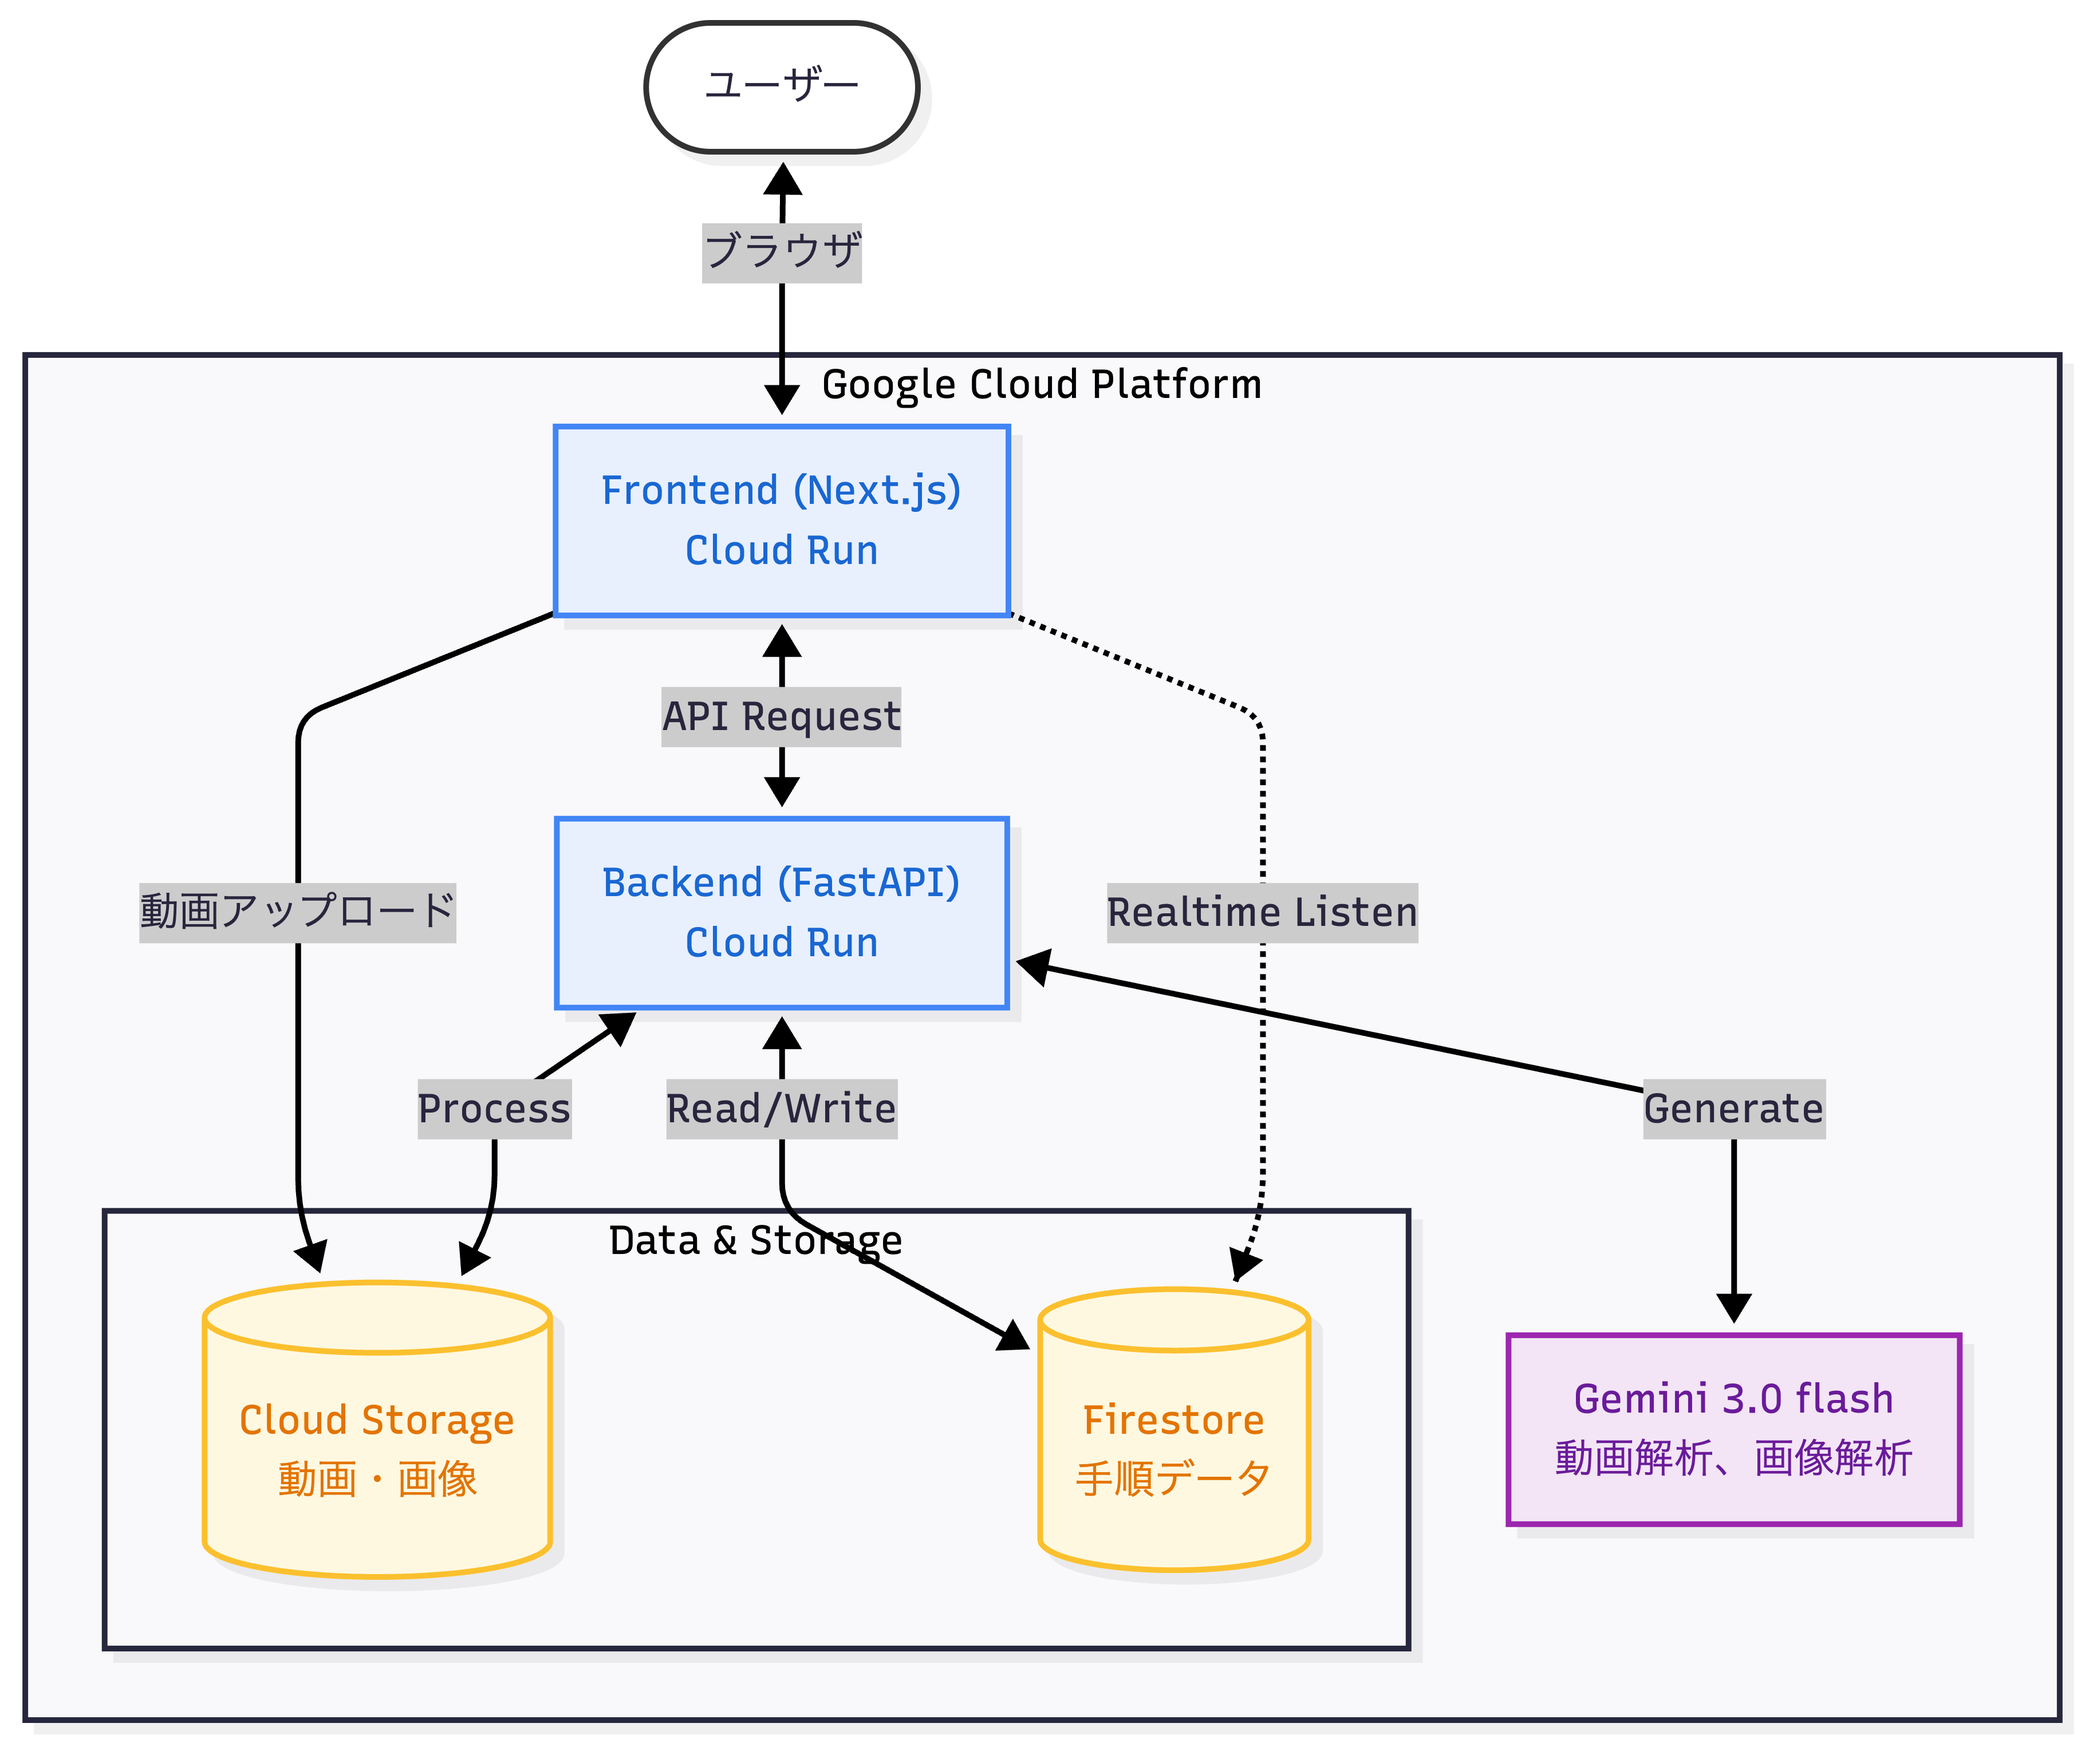
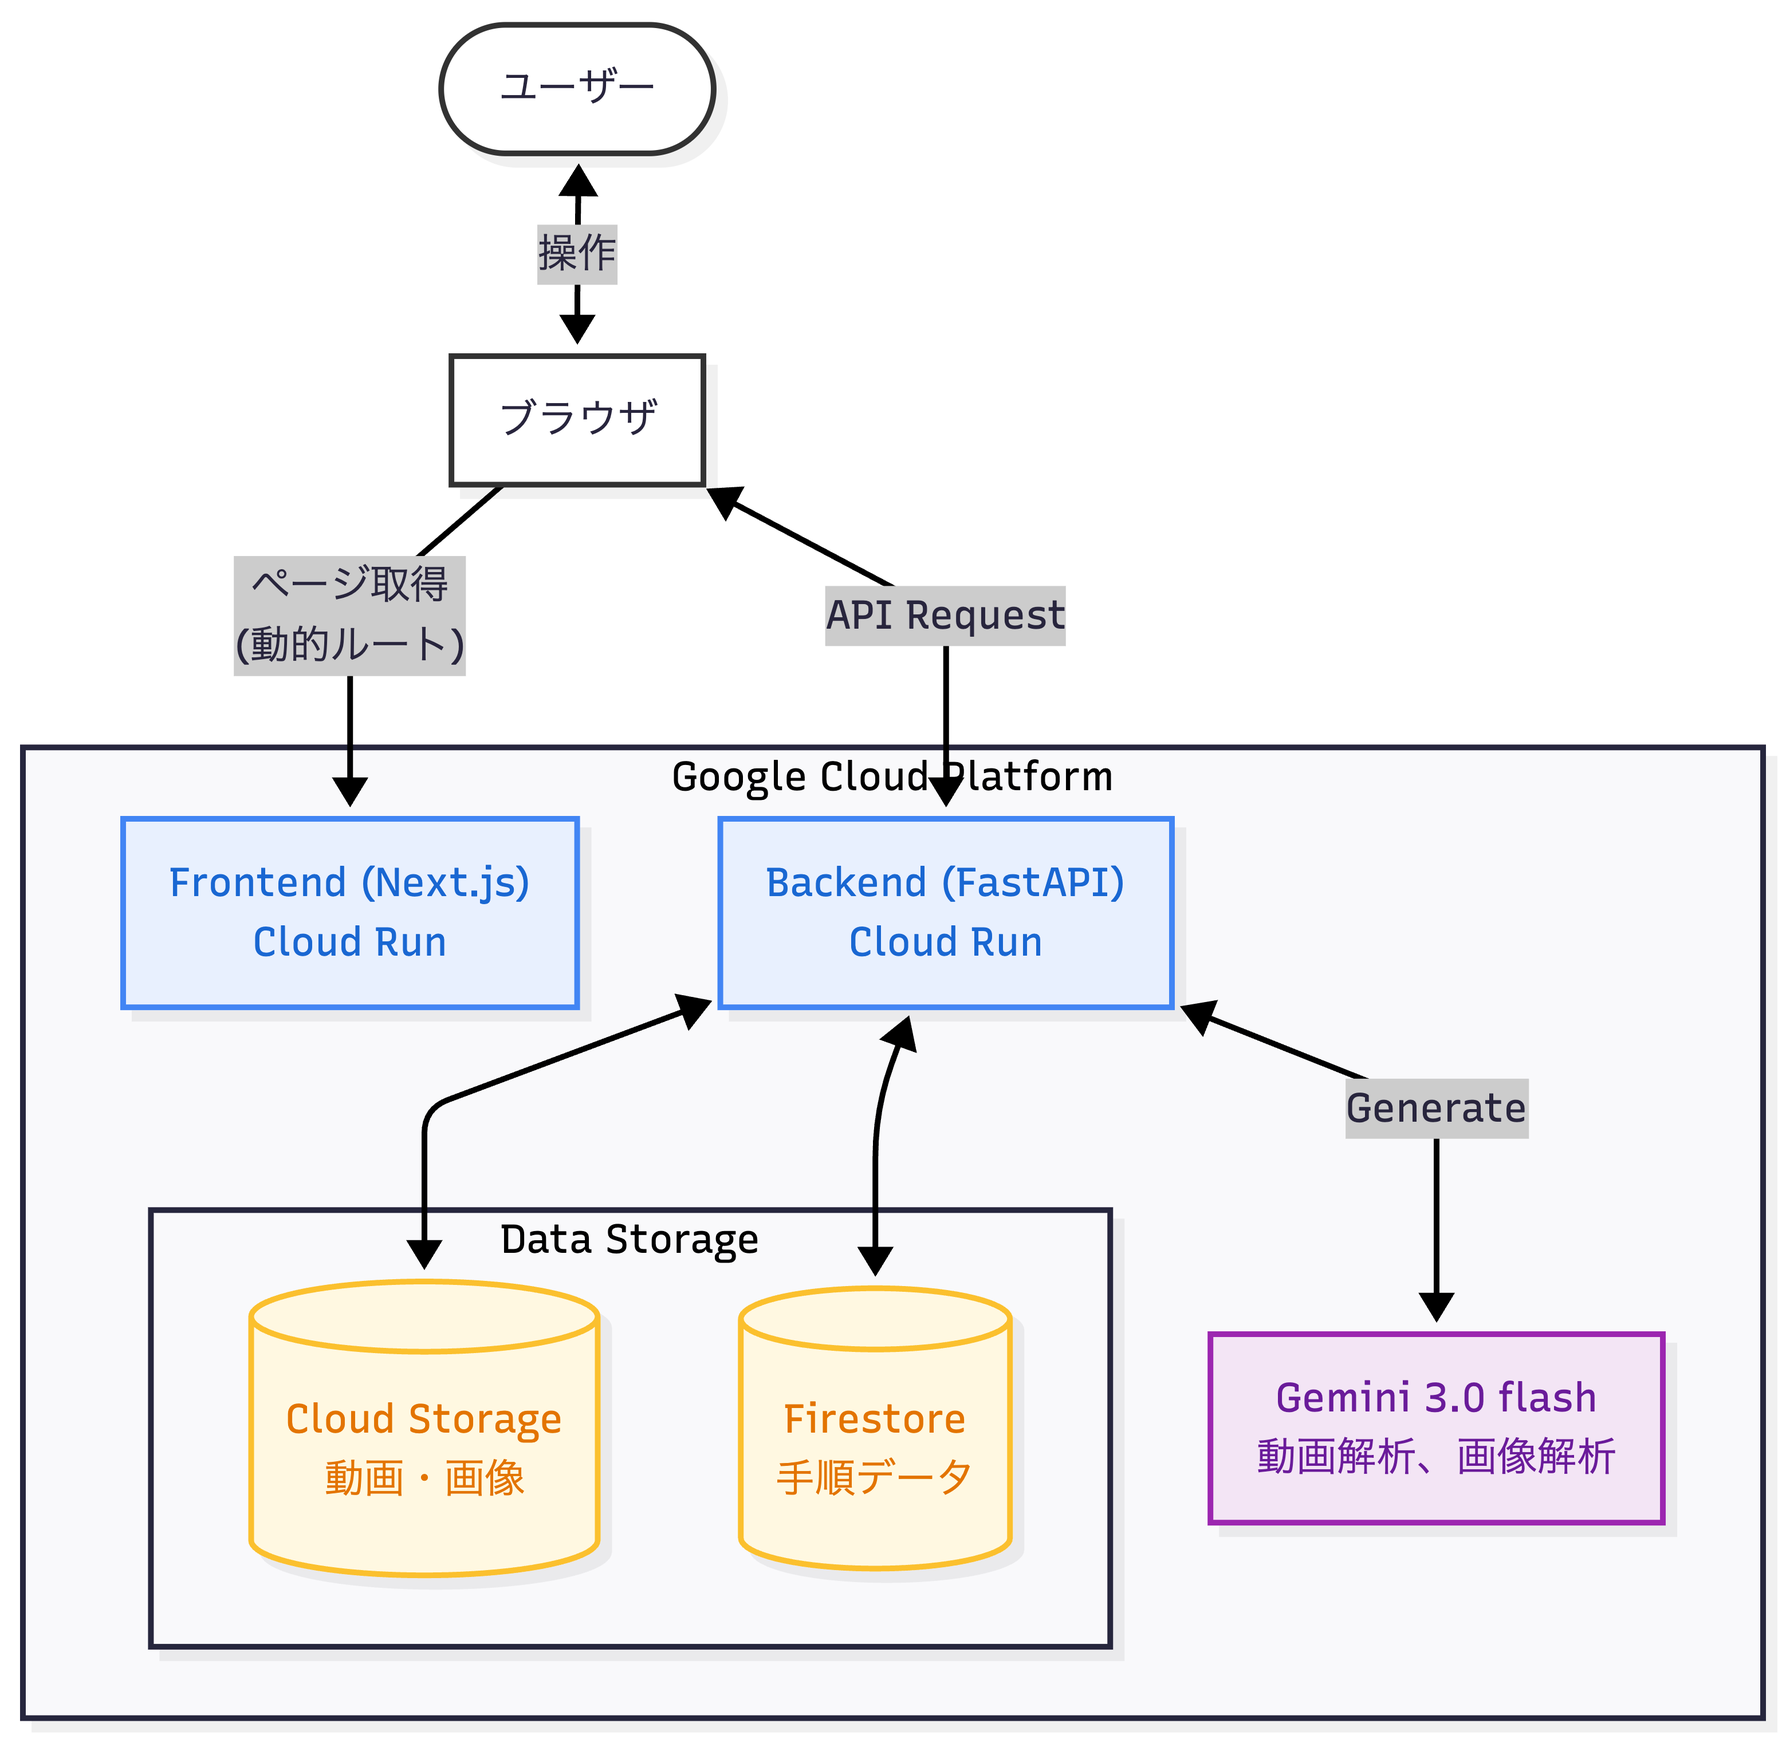
update: アーキテクチャの修正 フロントにおいてクライアントとサーバを明確化

Changed region(s): [[0.0, 0.0, 0.9955, 0.9675], [0.6222, 0.9363, 0.6844, 0.9675], [0.4355, 0.0312, 0.4666, 0.0624]]

diff --git a/docs/設計書.md b/docs/設計書.md
@@ -77,6 +77,7 @@ graph TD
     classDef ai fill:#f3e5f5,stroke:#9c27b0,stroke-width:2px,color:#6a1b9a;
 
     User([ユーザー])
+    Browser[ブラウザ]
 
     subgraph "Google Cloud Platform"
         direction TB
@@ -84,7 +85,7 @@ graph TD
         FE["Frontend (Next.js)"<br/>Cloud Run]
         BE["Backend (FastAPI)"<br/>Cloud Run]
         
-        subgraph "Data & Storage"
+        subgraph "Data Storage"
             GCS[(Cloud Storage<br/>動画・画像)]
             DB[(Firestore<br/>手順データ)]
         end
@@ -92,12 +93,12 @@ graph TD
         AI[Gemini 3.0 flash<br/>動画解析、画像解析]
     end
 
-    User <-->|ブラウザ| FE
-    FE <-->|API Request| BE
-    FE -- 動画アップロード --> GCS
-    BE <-->|Process| GCS
-    BE <-->|Read/Write| DB
-    FE -.->|Realtime Listen| DB
+    User <-->|操作| Browser
+    Browser -- "ページ取得<br/>(動的ルート)" --> FE
+    Browser <-->|API Request| BE
+    
+    BE <--> GCS
+    BE <--> DB
     BE <-->|Generate| AI
 
     %% クラス適用
@@ -105,6 +106,7 @@ graph TD
     class FE,BE compute;
     class GCS,DB storage;
     class AI ai;
+    class Browser user;
 ```
 
 
@@ -113,50 +115,47 @@ graph TD
 ```mermaid
 sequenceDiagram
     autonumber
-    actor User as ユーザー
+    participant Browser as ブラウザ<br/>(Client)
     participant FE as フロントエンド<br/>(Cloud Run)
     participant GCS as Cloud Storage
     participant DB as Firestore
     participant API as バックエンド<br/>(Cloud Run)
     participant AI as Gemini 3.0 Flash
 
-    Note over User, GCS: 動画アップロード
-    User->>FE: 動画選択
-    FE->>GCS: 直接アップロード (Signed URL / SDK)
+    Browser->>GCS: 動画アップロード (Firebase SDK)
     activate GCS
-    GCS-->>FE: 保存完了 (gs:// URL)
+    GCS-->>Browser: 保存完了 (gs:// URL)
     deactivate GCS
 
-    FE->>API: 解析リクエスト
+    Browser->>API: 解析リクエスト
     activate API
     API->>API: Background Task登録
-    API-->>FE: 202 Accepted (即時レスポンス)
+    API-->>Browser: 202 Accepted (即時レスポンス)
     deactivate API
 
-    Note over User, AI: 解析開始
+    Note over Browser, AI: 解析開始
     loop Firestore Listener
-        DB-->>FE: 状態更新通知 (onSnapshot)
-        FE->>FE: UI更新 (スケルトン -> 詳細表示)
-        FE->>User: 表示
+        DB-->>Browser: 状態更新通知 (onSnapshot)
+        Browser->>Browser: UI更新 (スケルトン -> 詳細表示)
     end
 
-    rect rgb(230, 230, 250)
-        Note right of API: 【Phase 1】 動画解析
-        API->>AI: 動画解析
-        AI-->>API: タイムスタンプ, タイトル
-        API->>DB: 初期データ保存
+    Note right of API: 【Phase 1】 動画解析
+    API->>AI: 動画解析
+    AI-->>API: タイトル, タイムスタンプ
+    API->>DB: 初期データ保存
 
-        Note right of API: 【Phase 2】 フレーム切り出し
-        GCS->>API: 動画ダウンロード
-        API->>API: フレーム切り出し(ffmpeg)
-        
-        Note right of API: 【Phase 3】 画像解析
-        loop 並列処理
-            API->>GCS: 画像アップロード
-            API->>AI: 画像解析
-            AI-->>API: 説明文, マスク位置, ハイライト位置
-            API->>DB: 保存
-        end
+    Note right of API: 【Phase 2】 フレーム切り出し
+    GCS->>API: 動画ダウンロード
+    API->>API: フレーム切り出し(ffmpeg)
+    
+    Browser->>FE: ページ取得 (GET /editor/[id])
+
+    Note right of API: 【Phase 3】 画像解析
+    loop 並列処理
+        API->>GCS: 画像アップロード
+        API->>AI: 画像解析
+        AI-->>API: 説明文, マスク位置, ハイライト位置
+        API->>DB: 保存
     end
 ```
 
